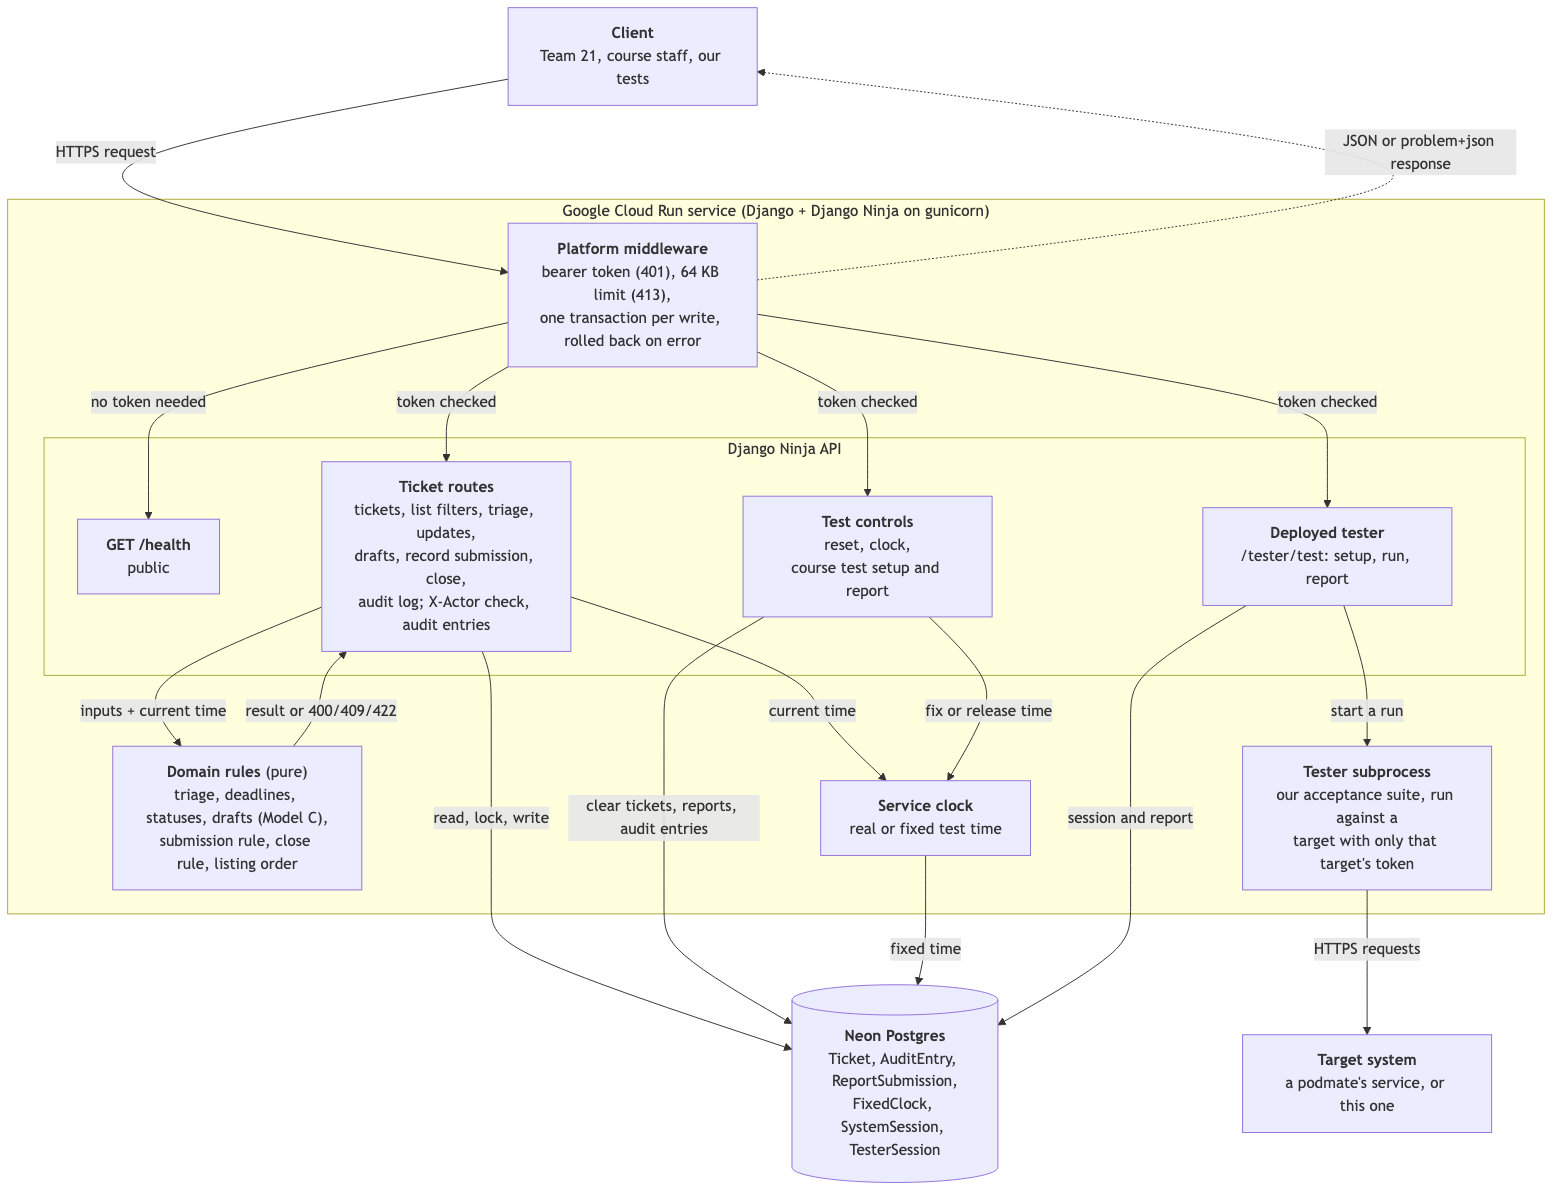
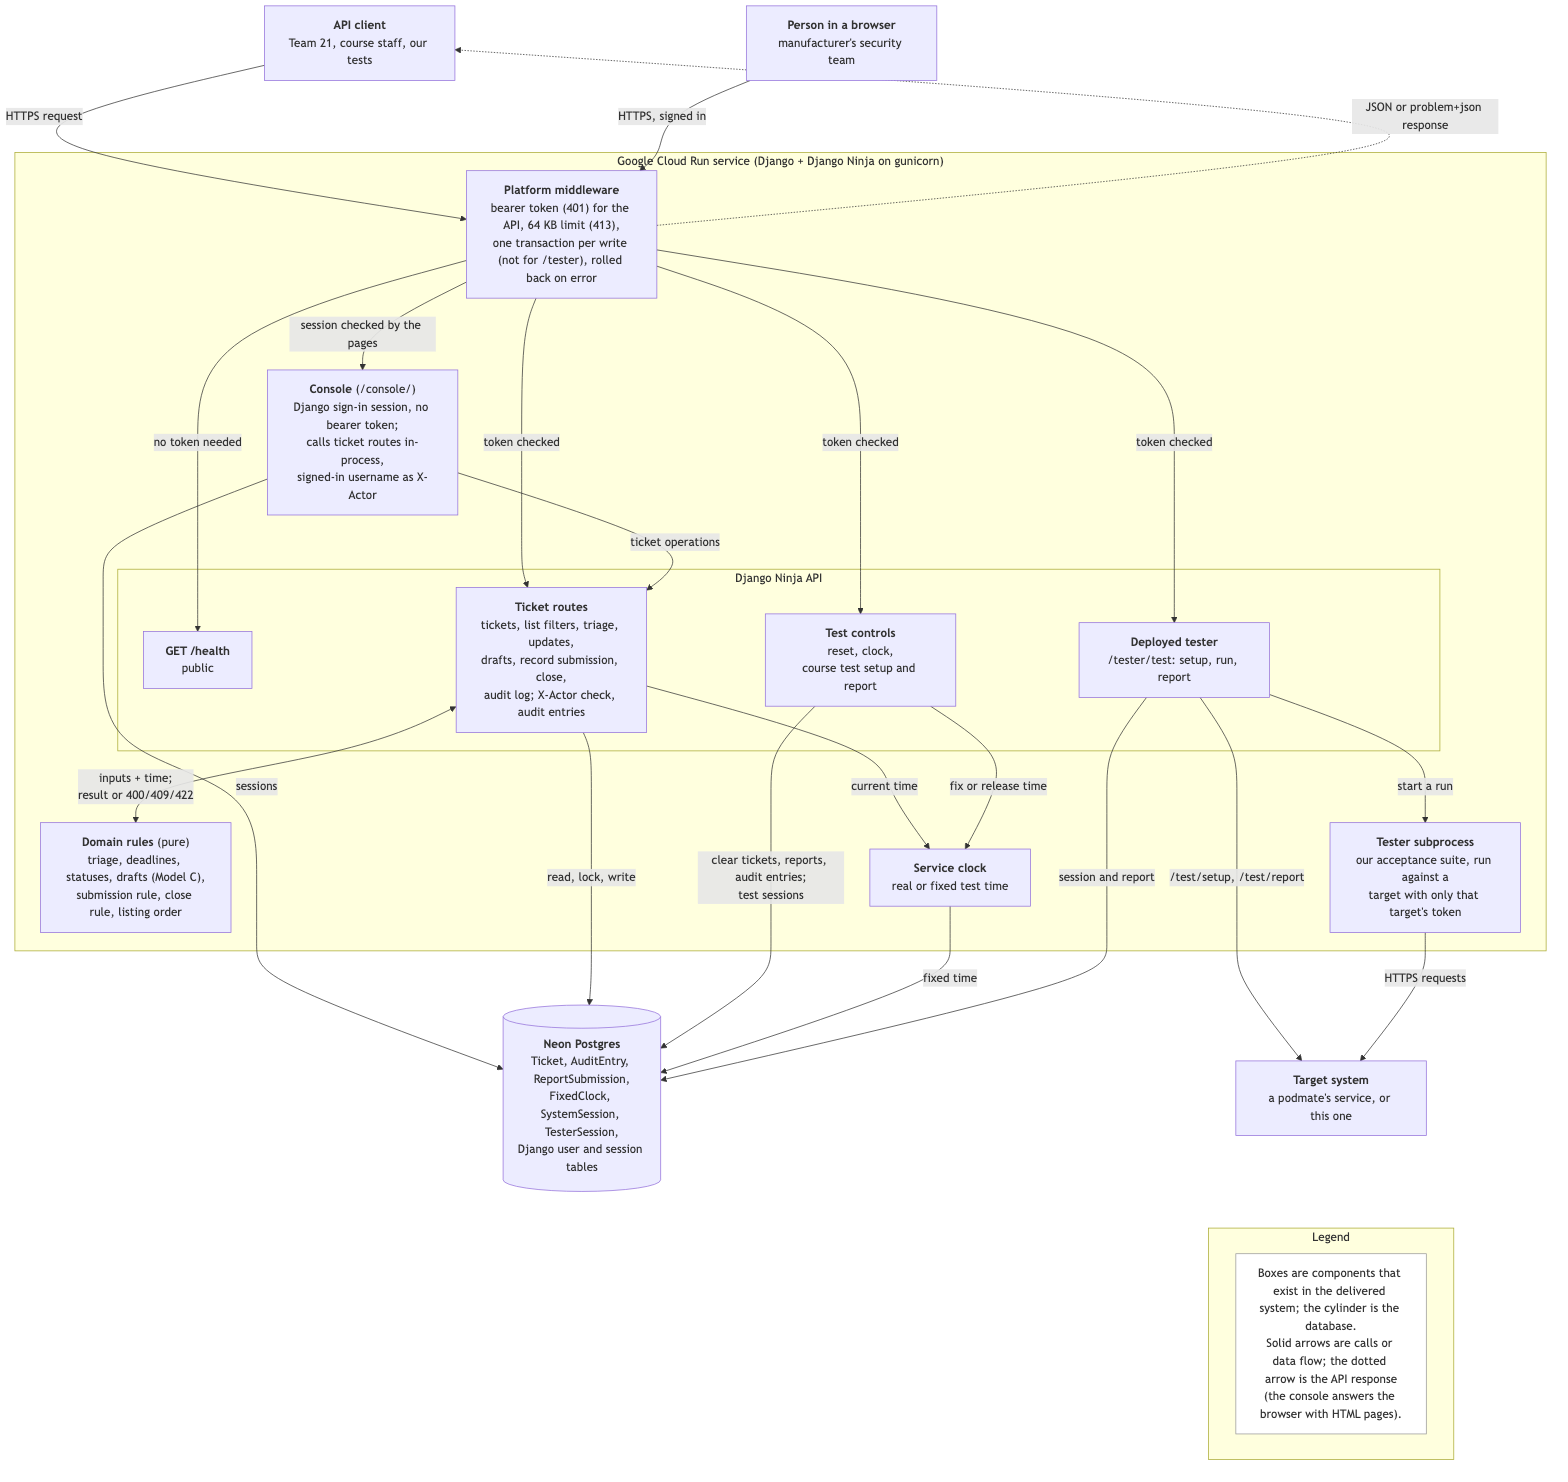
Models: fixes from the independent check (Model B transitions, console, legend)

diff --git a/docs/models/README.md b/docs/models/README.md
@@ -6,15 +6,16 @@ render (mermaid-cli 11.4.2), checked by eye for overlaps and against the code fo
 
 **Notation, shared by all three:** rounded boxes are states; plain boxes are components.
 Everything drawn exists in the delivered system (the Phase 3 versions drew Phase 4 parts
-dashed). Every diagram has a legend.
+dashed). Every diagram has a legend. An independent AI session (one that didn't draw them)
+checked all three against the code on 2026-11-01; its findings were fixed before merge.
 
 | Model | Changed in Phase 4 | What changed and why | Files |
 |---|---|---|---|
 | A. Ticket lifecycle (state machine) | Yes | Recording the three reports and closing a reportable ticket as `resolved` are now delivered, so they're solid. The reportable state lists what can be read and recorded (all four drafts; the three reports once each, in order), and each closed state says whether drafts are readable (Q3). | `model-a-ticket-lifecycle.*` |
-| B. Report status (state machine) | Yes | `submitted` and `submitted_late` are delivered. Adds `overdue` → `submitted` (a report recorded with a `submitted_at` at or before its due time) and the two-way `submitted` ↔ `submitted_late` transitions when a later edit moves the deadline (Q4, agreed with Team 21). Phase 2 drew the submitted states as final. | `model-b-report-status.*` |
+| B. Report status (state machine) | Yes | `submitted` and `submitted_late` are delivered. Adds `overdue` → `submitted` (a report recorded with a `submitted_at` at or before its due time) and the two-way `submitted` ↔ `submitted_late` transitions when a later edit moves the deadline (Q4, agreed with Team 21); Phase 2 drew the submitted states as final. Also adds three transitions an independent check found reachable but undrawn: a report can already be `overdue` at triage (Model D E1), a fix given at intake skips `awaiting_fix`, and clearing the fix sends an unrecorded final report back to `awaiting_fix`. | `model-b-report-status.*` |
 | C. Required fields per draft (table) | No | Delivered exactly as specified; the tester checks every draft against the table. The early-warning fields are still stricter than Art. 14(2)(a); the pod agreed to allow "unknown" (Q9), which needs a contract change in Phase 5. | `docs/spec.md` |
 | D. Deadline examples (table) | No | The delivered service reproduces E1 to E8 exactly (shared test file, `pod-k-shared/tests/`, checked by Team 21). | `docs/spec.md` |
-| Section 7.1 architecture and data flow (component diagram) | Yes | Adds what Phase 4 delivered: draft, submission and close routes, the Model C draft builder and submission, close and listing rules, and the `ReportSubmission` table. Also adds the course's cross-team testing interface (test setup and report, the deployed tester and its subprocess, and their session tables), which existed since Phase 3 but was missing from the Phase 3 drawing. | `architecture.*` |
+| Section 7.1 architecture and data flow (component diagram) | Yes | Adds what Phase 4 delivered: draft, submission and close routes, the Model C draft builder and the submission, close and listing rules, the `ReportSubmission` table, and the console (`/console/`, Django sign-in instead of the bearer token, calling the ticket routes in-process). Also adds the course's cross-team testing interface (test setup and report, the deployed tester, its subprocess, and their session tables), which existed since Phase 3 but was missing from the Phase 3 drawing. Now has a legend. | `architecture.*` |
 
 To re-render after an edit: `npx -p @mermaid-js/mermaid-cli@11.4.2 mmdc -i <file>.mmd -o <file>.png -b white -s 2`,
 then look at the image before committing.
